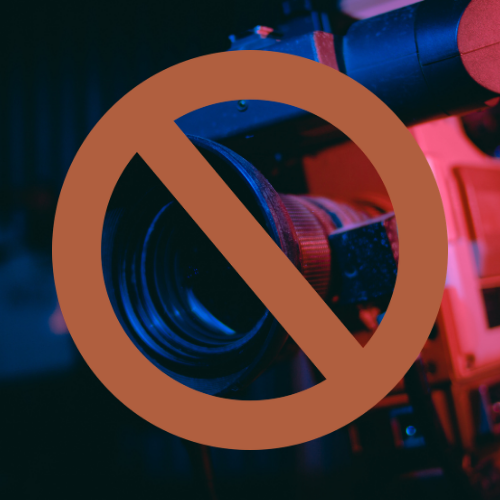
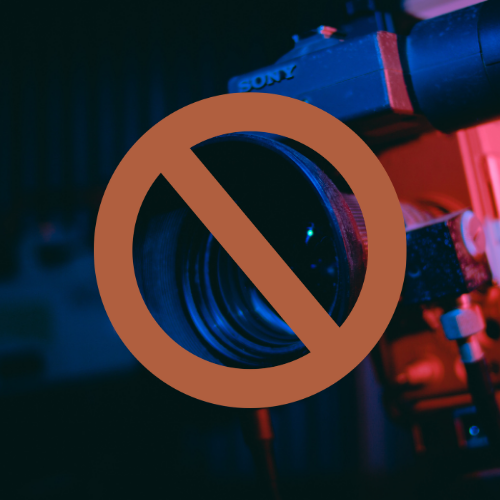
atualizando possiveis erros

diff --git a/src/zone/showReceitas/showData.js b/src/zone/showReceitas/showData.js
@@ -15,7 +15,21 @@ export async function getData(id) {
         ...item.data()
     }))
 
+    if (receitas.length === 0) {
+        const divMae = document.createElement("div")
+        const h1Name = document.createElement("h1")
+        divMae.classList.add("flex", 'flex-col', 'gap-2', 'justify-center', 'items-center')
+        h1Name.classList.add('text-[#b15d3b]', 'font-bold','text-xl')
+        show.innerHTML = ""
+        h1Name.textContent = "Sem Receitas"
+        divMae.appendChild(h1Name)
+
+        show.appendChild(divMae)
+      
+    }
+
     for (let i in receitas) {
+
         const divMae = document.createElement("div")
         const divSon = document.createElement('div')
         const divTitle = document.createElement("div")
@@ -28,27 +42,34 @@ export async function getData(id) {
         const h1Btn = document.createElement("h1")
 
         //classes 
-        divMae.classList.add("flex", 'flex-col', 'gap-3',)
-        divSon.classList.add("flex", 'flex-col', 'gap-3', 'bg-[#f7f3ee]', 'rounded-xl', )
+        divMae.classList.add("flex", 'flex-col', 'gap-2',)
+        divSon.classList.add("flex", 'flex-col', 'justify-between', 'bg-[#f7f3ee]', 'rounded-xl', 'h-90')
         divTitle.classList.add("flex", 'items-center', 'justify-between', 'gap-3', 'p-2')
         divComida.classList.add('w-full', 'h-50')
         imgComida.classList.add('rounded-tr-xl', 'rounded-tl-xl', 'w-full', 'h-full', 'object-cover', 'object-center')
         h1Description.classList.add('p-2', 'text-[#b15d3b]', 'font-bold')
         h1Name.classList.add('text-[#b15d3b]', 'font-bold')
         divImgTitle.classList.add('favorite', 'cursor-pointer')
-        divBtn.classList.add('group',"flex", 'items-center', 'justify-center', 'm-2','p-2','bg-[#b15d3b]', 'rounded','hover:bg-[#de764c]', 'cursor-pointer','showModalReceitas')
+        divBtn.classList.add('group', "flex", 'items-center', 'justify-center', 'm-2', 'p-2', 'bg-[#b15d3b]', 'rounded', 'hover:bg-[#de764c]', 'cursor-pointer', 'showModalReceitas')
         h1Btn.classList.add('text-white', 'font-bold',)
+
+
 
         divBtn.setAttribute('ids', receitas[i].id)
         divImgTitle.setAttribute('id', receitas[i].id)
 
+
         //dados
         h1Btn.textContent = "Ver Receita"
-       
+
         imgComida.src = receitas[i].imgs
         h1Name.textContent = receitas[i].name
         h1Description.textContent = receitas[i].description
-
+        if (id === true) {
+            divImgTitle.classList.add('hidden')
+        } else {
+            divImgTitle.classList.remove('hidden')
+        }
         if (receitas[i].favorito == true) {
             divImgTitle.innerHTML = `
             <svg xmlns="http://www.w3.org/2000/svg" viewBox="0 0 24 24" fill="currentColor" class="size-6 stroke-red-500 text-red-500">
@@ -79,17 +100,18 @@ export async function getData(id) {
             item.addEventListener('click', () => {
                 let ids = item.getAttribute('id')
                 favorites(ids)
-                
+
             })
         })
-       
+
         divSon.querySelectorAll('.showModalReceitas').forEach(item => {
             item.addEventListener('click', () => {
                 let id = item.getAttribute('ids')
                 showModalReceita(id)
-               
+
             })
         })
+
 
         show.appendChild(divMae)
 

diff --git a/src/zone/buscaInput/buscaInput.js b/src/zone/buscaInput/buscaInput.js
@@ -1,27 +1,28 @@
 import { collection, query, where, getDocs } from "https://www.gstatic.com/firebasejs/12.13.0/firebase-firestore.js"
 import { db } from "../../utils/config/firebase.js"
-import { showNavigate } from "../../utils/navigate/navigate.js"
+import { showMassas } from "../../utils/navigate/navigate.js"
+import { showModalReceita } from "../showReceitas/showModalReceitas.js"
 
 
 export async function searchs(id) {
     let show = document.querySelector("#show")
     show.innerHTML = ""
 
-     const q = query(
+    const q = query(
         collection(db, "receitas"),
         where("name", ">=", id),
         where("name", "<=", id + "\uf8ff")
     )
-        
+
     const data = await getDocs(q)
     const receitas = await data.docs.map(item => ({
         id: item.id,
         ...item.data()
     }))
-    console.log(receitas)
 
-    if(id == ""){
-        showNavigate()
+
+    if (id == "") {
+        showMassas()
         return
     }
 
@@ -34,7 +35,8 @@ export async function searchs(id) {
         const imgComida = document.createElement("img")
         const h1Name = document.createElement("h1")
         const divComida = document.createElement("div")
-
+        const divBtn = document.createElement("div")
+        const h1Btn = document.createElement("h1")
         //classes 
         divMae.classList.add("flex", 'flex-col', 'gap-3',)
         divSon.classList.add("flex", 'flex-col', 'gap-3', 'bg-[#f7f3ee]', 'rounded-xl',)
@@ -44,11 +46,15 @@ export async function searchs(id) {
         h1Description.classList.add('p-2', 'text-[#b15d3b]', 'font-bold')
         h1Name.classList.add('text-[#b15d3b]', 'font-bold')
         divImgTitle.classList.add('cursor-pointer')
+        divBtn.classList.add('group', "flex", 'items-center', 'justify-center', 'm-2', 'p-2', 'bg-[#b15d3b]', 'rounded', 'hover:bg-[#de764c]', 'cursor-pointer', 'showModalReceitas')
+        h1Btn.classList.add('text-white', 'font-bold',)
+
+        divBtn.setAttribute('ids', receitas[i].id)
         //dados
         imgComida.src = receitas[i].imgs
         h1Name.textContent = receitas[i].name
         h1Description.textContent = receitas[i].description
-
+        h1Btn.textContent = "Ver Receita"
         if (receitas[i].favorito == true) {
             divImgTitle.innerHTML = `
                <svg xmlns="http://www.w3.org/2000/svg" viewBox="0 0 24 24" fill="currentColor" class="size-6 stroke-red-500 text-red-500">
@@ -68,11 +74,20 @@ export async function searchs(id) {
         divTitle.appendChild(h1Name)
         divTitle.appendChild(divImgTitle)
         divComida.appendChild(imgComida)
+        divBtn.appendChild(h1Btn)
         divSon.appendChild(divComida)
         divSon.appendChild(divTitle)
         divSon.appendChild(h1Description)
+        divSon.appendChild(divBtn)
         divMae.appendChild(divSon)
 
+        divSon.querySelectorAll('.showModalReceitas').forEach(item => {
+            item.addEventListener('click', () => {
+                let id = item.getAttribute('ids')
+                showModalReceita(id)
+
+            })
+        })
         show.appendChild(divMae)
     }
 }

diff --git a/src/zone/ingredientes/save.js b/src/zone/ingredientes/save.js
@@ -1,22 +1,22 @@
 import { db } from "../../utils/config/firebase.js";
 import { dataIngredientes, plussStufs } from "./plusIngredientes.js";
 import { dataPass, showData, showPass } from "./plusPass.js";
-import { collection, addDoc, getDocs } from "https://www.gstatic.com/firebasejs/12.13.0/firebase-firestore.js";
+import { collection, addDoc, getDocs,setDoc, doc} from "https://www.gstatic.com/firebasejs/12.13.0/firebase-firestore.js";
 
 export async function saveData() {
     let select = document.querySelector('#select')
     let name = document.querySelector('#name')
     let link = document.querySelector('#link')
     let img = document.querySelector('#img')
-     let description = document.querySelector('#description')
+    let description = document.querySelector('#description')
     const API_KEY = "2cc9bc81af8967580d318d107a44ad97"
 
     if (!name.value || !description.value || !img.value || select.value === "Categoria" || dataIngredientes.length <= 0 || dataPass.length <= 0) {
         alert('adicione os dados')
-    }else if(!description.value){
+    } else if (!description.value) {
         alert("Adicione a Descrição Da Receita")
         return
-    }else if (!name.value) {
+    } else if (!name.value) {
         alert("Adicione o Nome Da Receita")
         return
     } else if (!img.value) {
@@ -48,8 +48,10 @@ export async function saveData() {
         const data = await response.json()
         const imageUrl = data.data.url
 
-        const ref = await addDoc(collection(db, "receitas"), {
-            id:id,
+        const ref = doc(collection(db, "receitas"))
+
+        await setDoc(ref, {
+            id: ref.id,
             name: name.value.toLowerCase(),
             link: link.value,
             description: description.value,
@@ -63,6 +65,7 @@ export async function saveData() {
         name.value = ""
         link.value = ""
         img.value = ""
+        description = ""
         select.value === "Categoria"
         dataIngredientes.length = 0
         dataPass.length = 0

diff --git a/src/zone/showReceitas/showModalReceitas.js b/src/zone/showReceitas/showModalReceitas.js
@@ -69,8 +69,8 @@ export async function showModalReceita(id) {
         } else if (link.includes("instagram.com")) {
            
             divVideo.innerHTML = `
-                <img src="../../../public/img/img/insta.png" class="rounded-xl max-w-xs"/>
-                <div class="flex items-center justify-center bg-[#b15d3b]  text-white p-2 rounded max-w-xs">
+                <img src="../../../public/img/img/insta.png" class="rounded-xl  h-80 bg-gray-700 object-cover"/>
+                <div class="flex items-center  justify-center bg-[#b15d3b]  text-white p-2 rounded ">
                     <a 
                     href="${link}" 
                     target="_blank">
@@ -82,8 +82,8 @@ export async function showModalReceita(id) {
         } else {
           
             divVideo.innerHTML = `
-                <img src="../../../public/img/img/block.png" class="rounded-xl max-w-xs"/>
-                <div  class="flex items-center justify-center bg-[#b15d3b]  text-white p-2 rounded  max-w-xs">
+                <img src="../../../public/img/img/block.png" class="rounded-xl  h-80 bg-gray-700 object-cover"/>
+                <div  class="flex items-center justify-center bg-[#b15d3b]  text-white p-2 rounded  ">
                     <h1>
                         Sem Video
                     </h1>
@@ -107,7 +107,7 @@ export async function showModalReceita(id) {
             const passh1 = document.createElement("h1")
             const description = document.createElement("h1")
 
-            divData.classList.add('flex', 'flex-col', 'gap-2')
+            divData.classList.add('flex', 'flex-col', 'gap-1','bg-[#f7f3ee]','p-2','rounded-xl')
             passh1.classList.add('text-[#b15d3b]', 'font-bold', 'text-md')
             description.classList.add('text-[#b15d3b]', 'font-bold', 'text-md')
 

diff --git a/src/css/output.css b/src/css/output.css
@@ -222,6 +222,9 @@
   .m-auto {
     margin: auto;
   }
+  .mb-2 {
+    margin-bottom: calc(var(--spacing) * 2);
+  }
   .mb-5 {
     margin-bottom: calc(var(--spacing) * 5);
   }
@@ -273,8 +276,14 @@
   .h-90 {
     height: calc(var(--spacing) * 90);
   }
+  .h-120 {
+    height: calc(var(--spacing) * 120);
+  }
   .h-full {
     height: 100%;
+  }
+  .max-h-90 {
+    max-height: calc(var(--spacing) * 90);
   }
   .w-4 {
     width: calc(var(--spacing) * 4);
@@ -402,6 +411,9 @@
   .bg-\[\#b15d3b\] {
     background-color: #b15d3b;
   }
+  .bg-\[\#de764c\] {
+    background-color: #de764c;
+  }
   .bg-\[\#f7f3ee\] {
     background-color: #f7f3ee;
   }
@@ -419,6 +431,9 @@
   }
   .bg-gray-700 {
     background-color: var(--color-gray-700);
+  }
+  .bg-red-700 {
+    background-color: var(--color-red-700);
   }
   .bg-white {
     background-color: var(--color-white);

diff --git a/index.html b/index.html
@@ -143,8 +143,7 @@
                             <option>Sobremessas</option>
                             <option>Café</option>
                             <option>Lanches</option>
-                            <option>Fitness Doce</option>
-                            <option>Fitness Salgado</option>
+                            <option>Fitness</option>
                         </select>
                     </div>
                     <div class="flex flex-col gap-2">
